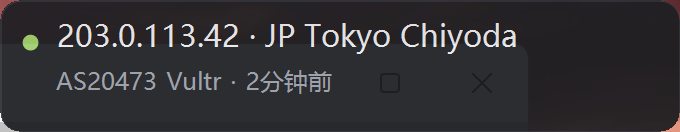
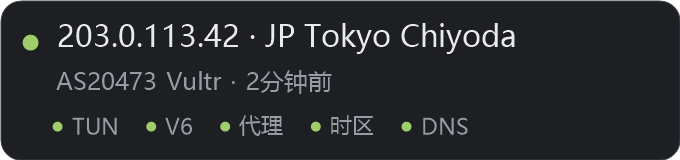
发布 v3.2.0：出口体检（卡片徽章 + 诊断窗口 + --diag）
卡片多一行五个状态徽章（TUN / V6 / 代理 / 时区 / DNS），主圆点由诊断结论驱动。
右键「网络诊断…」打开体检窗口，逐行给出判定依据；--diag 输出同一套结论的文本报告。

能查的：隧道是否接管（v4/v6 分开看，靠路由表而不是网卡名）、
系统代理与 TUN 是否叠加、v4 出口与归属、v6 是否能走通、
时区是否与出口一致、DNS 解析器是否走了隧道。
查不到就显示空心圈，绝不冒充通过。

顺带修的坑：
  · WinHTTP 错误文本乱码（%s → %ls）
  · 主物理网卡误把 TUN 网卡当成自己（虚拟网卡没有 MAC）
  · 探测请求被系统代理接走，v6 误报不可达
  · WinHTTP 对 IPv6 字面量支持有缺陷，v6 改为 TCP 连通测试
  · app.rc 的版本号是硬编码的（windres 预处理 #include 会失败），升级要两处一起改

diff --git a/src/version.h b/src/version.h
@@ -1,11 +1,13 @@
 #pragma once
 
-// Single source of truth for the version number.
-// app.rc includes this file; the User-Agent uses the same value.
-#define IPFLOAT_VERSION_A "3.1.0"
-#define IPFLOAT_VERSION_W L"3.1.0"
+// Single source of truth for the version number —— **但有例外**。
+// app.rc 里那份 VERSIONINFO 是硬编码的：MSYS2 的 windres 预处理 #include 会失败，
+// 所以升版本时**必须同时改 app.rc** 的 FILEVERSION / FileVersion / ProductVersion。
+// （User-Agent 用的是 IPFLOAT_VERSION_W，跟着这里走。）
+#define IPFLOAT_VERSION_A "3.2.0"
+#define IPFLOAT_VERSION_W L"3.2.0"
 
 #define IPFLOAT_VERSION_MAJOR 3
-#define IPFLOAT_VERSION_MINOR 1
+#define IPFLOAT_VERSION_MINOR 2
 #define IPFLOAT_VERSION_PATCH 0
 #define IPFLOAT_VERSION_BUILD 0

diff --git a/src/selftest.cpp b/src/selftest.cpp
@@ -47,6 +47,8 @@ bool RenderDemoCard(const std::wstring& path, float scale, std::wstring& err)
     in.v6.ip = d.info.ip;
     in.dnsChecked = true;
     in.dnsResolverIp = L"1.1.1.1";
+    in.dnsResolverCountry = L"US";      // 和示例出口同国，徽章才是绿的
+    in.dnsResolverOrg = L"Cloudflare";
 
     Diagnosis diag = Diagnose(in);
     t.badges = BuildBadges(diag);

diff --git a/README.md b/README.md
@@ -15,7 +15,7 @@ AS20473 Vultr · 2分钟前
 
 |路径|说明|
 |-|-|
-|**`ip-float.exe`**|★ 成品（当前 **v3.1.0**，约 905 KB）。单文件、双击即开、零运行时依赖。**不进 git**，分发走 [Releases](https://github.com/jiqinghuang/ip-float/releases/latest)|
+|**`ip-float.exe`**|★ 成品（当前 **v3.2.0**，约 940 KB）。单文件、双击即开、零运行时依赖。**不进 git**，分发走 [Releases](https://github.com/jiqinghuang/ip-float/releases/latest)|
 |`src/`|C++ 源码（按职责拆分）+ 图标 + `build.ps1` / `sign.ps1`|
 |`tests/`|纯逻辑单测（`build.ps1 -Test`）|
 |`.site-assets/`|网站素材生成 / 站点页面校验|
@@ -72,16 +72,20 @@ ip-float.exe --ini D:\tmp\ip-float.ini           # 固定用某份配置
 
 ```powershell
 ip-float.exe --render out\card.png --render-scale 2   # 离屏渲染卡片（不联网、不建窗、不读写配置）
+ip-float.exe --diag out\diag.txt                      # 出口体检报告（.txt + .json），不建窗口
 ip-float.exe --demo --shot out\card-screen.png        # 屏幕抓图 smoke test（演示数据）
 ip-float.exe --demo --shot-dlg out\dlg.png            # 设置窗口抓图
 ```
 
 * `--render` 直接画进 32bpp 位图，输出自带透明圆角，**不依赖桌面、壁纸、不透明度或屏幕 DPI**；
   同时写 `card.png.json`（width/height/scale/cornerRadius/colors）和 `card.png.log`。
-  `--render-scale 2` 是 2x（680×132），默认也是 2。
+  `--render-scale 2` 是 2x（680×160），默认也是 2。
+* `--diag` 跑的是诊断窗口那套判定的同一个 `Diagnose()`：本机事实、v4/v6 出口、时区一致性、
+  DNS 解析器。适合丢给 CI 或贴进 issue。**需要多久就等多久**（v4 出口 + v6 连通 + 解析器归属，
+  最长约 8 秒），失败项会在报告里写明原因，不会假装通过。
 * `--shot` 走真实的卡片窗口，默认用演示数据（不联网）；只有同时给 `--source` 才取真实数据。
   `--shot-dlg` 只拍设置窗口，永远用演示数据、不联网。
-* 两种自检都**只读配置、不写回**（不会改你的位置/间隔/数据源）；也都不受单实例限制。
+* 这几种自检都**只读配置、不写回**（不会改你的位置/间隔/数据源）；也都不受单实例限制。
   一次只能拍一个。
 * `--shot` 是屏幕抓图 smoke test，会受当前不透明度/桌面影响；给网页或文档用的干净素材
   请用 `--render`。`--shot-dlg` 拍的设置窗口本身不透明，不受不透明度影响。
@@ -252,6 +256,11 @@ python .site-assets\validate.py --site-root ..\jiqinghuang.github.io
 
 ## 已知限制
 
+* **WinHTTP 处理 IPv6 字面量有缺陷**：带方括号时 `WinHttpConnect` 成功但 `SendRequest` 报
+  `12029`，去掉方括号直接 `12005`。所以 IPv6 只做 TCP 连通测试（不取响应内容），
+  报告里写的是「可走通」而不是出口 IP。
+* 徽章的灰点分两种：**空心 ○ = 当前配置下不适用**（比如没开隧道时问「隧道接管了吗」），
+  **实心灰 ● = 测了但没测到**。两者绝不能混为一谈，否则健康状态看起来像探测失败。
 * 走 Windows **schannel**（WinHTTP）。如果网络里有中间人/企业代理导致证书校验失败，
   会看到 `12175/12182/12185` 之类的错误码 —— 这类环境需要换用 OpenSSL 栈的客户端。
 * 每 N 分钟会向 ipinfo.io / ipapi.co 发一次请求，等于把出口 IP 报给第三方；介意就调大间隔或换自建源。
@@ -265,5 +274,5 @@ python .site-assets\validate.py --site-root ..\jiqinghuang.github.io
 * 仓库已接上 git（`origin` = `https://github.com/jiqinghuang/ip-float.git`）；
   改源码时顺手多提交几次，别攒成一个大 commit —— 出问题才有得回退。
 * **`ip-float.exe` 不进仓库**：分发走 [GitHub Releases](https://github.com/jiqinghuang/ip-float/releases/latest)，
-  下载链接固定为 `/releases/latest`。重编一次哈希就变一次，把 905 KB 的二进制反复写进 git
+  下载链接固定为 `/releases/latest`。重编一次哈希就变一次，把 940 KB 的二进制反复写进 git
   历史没有意义。`build.ps1` 默认输出到仓库根目录，但 `dist/` 和 `ip-float.exe` 都被忽略。
